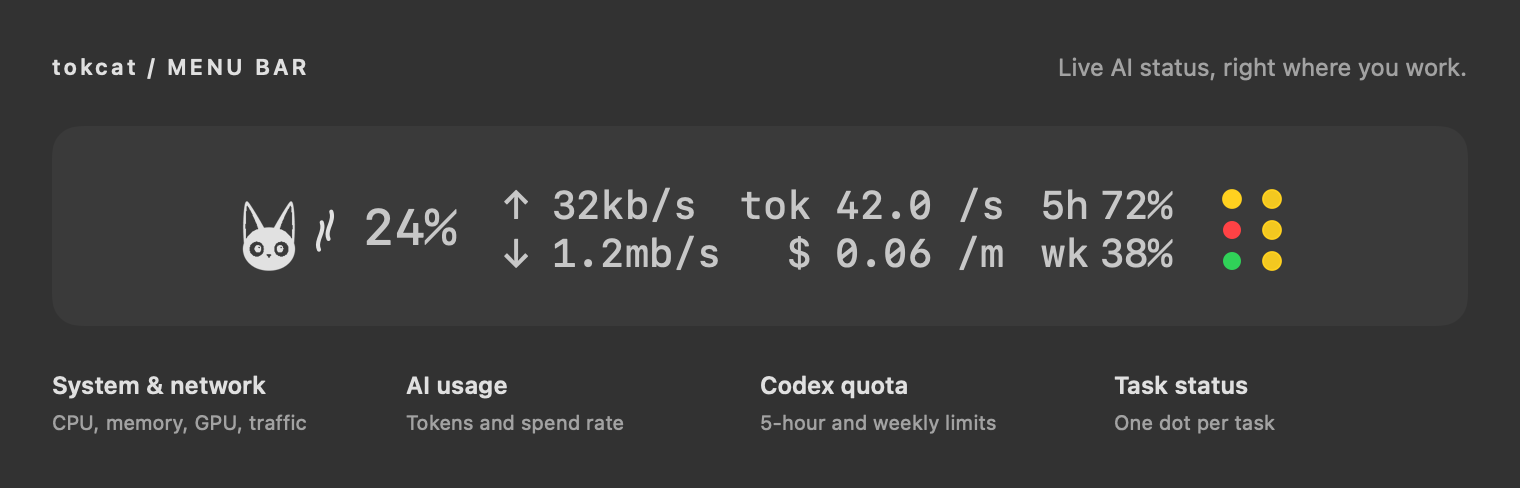
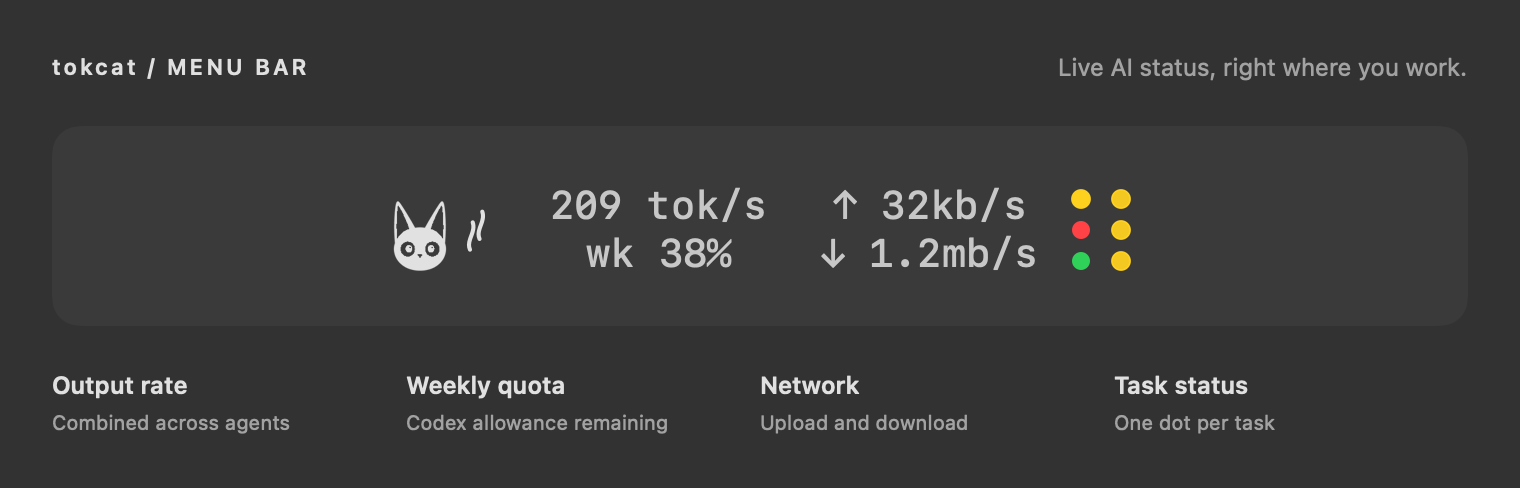
Refresh GitHub homepage with the fixed-width menu bar

diff --git a/scripts/docs_screenshots/MenuBarDocumentationPreview.swift b/scripts/docs_screenshots/MenuBarDocumentationPreview.swift
@@ -20,12 +20,9 @@ enum MenuBarDocumentationPreview {
             return value
         }
         let settings = AppSettings(menuBarMetricColumns: AppSettings.defaultMenuBarMetricColumns + [
-            .init(top: .costRate, bottom: .codexFiveHour),
-            .init(top: .cpu),
             .init(top: .networkUpload, bottom: .networkDownload)
         ])
         let quota = CodexUsageSnapshot(
-            fiveHour: .init(kind: .fiveHour, usedPercent: 28, windowSeconds: 18_000, resetAfterSeconds: 3_600),
             weekly: .init(kind: .weekly, usedPercent: 62, windowSeconds: 604_800, resetAfterSeconds: 86_400),
             fetchedAt: now)
         for dark in [false, true] {
@@ -34,8 +31,8 @@ enum MenuBarDocumentationPreview {
             var strip = NSImage()
             appearance.performAsCurrentDrawingAppearance {
                 let metrics = MenuBarStatusRenderer.image(settings: settings,
-                    metrics: SystemMetrics(cpuPercent: 24, networkInBytesPerSecond: 1_250_000, networkOutBytesPerSecond: 32_768),
-                    tokensPerSecond: 42, usdPerSecond: 0.001,
+                    metrics: SystemMetrics(networkInBytesPerSecond: 1_250_000, networkOutBytesPerSecond: 32_768),
+                    tokensPerSecond: 209.2,
                     activity: .init(mode: .working, intensity: 0.5, phase: 0, completionProgress: 0), codexUsage: quota)
                 strip = SessionMenuBarRenderer.image(icon: metrics, sessions: tasks, phase: 0,
                     reduceMotion: false, now: now,
@@ -57,9 +54,9 @@ enum MenuBarDocumentationPreview {
                 .padding(.vertical, 24)
                 .background(Color.primary.opacity(0.045), in: RoundedRectangle(cornerRadius: 14))
                 HStack(spacing: 0) {
-                    caption("System & network", "CPU, memory, GPU, traffic")
-                    caption("AI usage", "Tokens and spend rate")
-                    caption("Codex quota", "5-hour and weekly limits")
+                    caption("Output rate", "Combined across agents")
+                    caption("Weekly quota", "Codex allowance remaining")
+                    caption("Network", "Upload and download")
                     caption("Task status", "One dot per task")
                 }
             }

diff --git a/README.md b/README.md
@@ -6,7 +6,7 @@ Follow your AI agents’ tasks, conversations and usage from the **macOS menu ba
 
 [English](README.md) · [简体中文](README.zh-CN.md)
 
-**[Install for macOS](#install-for-macos)** · **[Download Windows ZIP](https://github.com/SelinLee/tokcat/releases/download/windows-2026.11.14.1/tokcat-windows-2026.11.14.1.zip)**
+**[Download for macOS](https://github.com/SelinLee/tokcat/releases/latest)** · **[Download Windows ZIP](https://github.com/SelinLee/tokcat/releases/download/windows-2026.11.14.1/tokcat-windows-2026.11.14.1.zip)**
 
 </div>
 
@@ -136,12 +136,14 @@ See who is running, who needs an answer, and whose reply is ready. The shared ta
 
 ### Glance at the menu bar
 
-One status dot per task, next to the metrics you choose. Keep several agents in sight while working in another app.
+The default macOS menu-bar column shows the combined output rate in `tok/s` above the remaining weekly Codex quota (`wk`). In **Settings → Menu Bar**, add or remove columns and select each row independently. Both rows are centered, and their column stays the same width as the readings change.
 
 <picture>
   <source media="(prefers-color-scheme: dark)" srcset="docs/assets/screenshots/readme-menubar-dark.png" />
-  <img src="docs/assets/screenshots/readme-menubar-light.png" alt="Task status dots, token throughput, spend rate, system metrics and Codex quota" width="1040" />
+  <img src="docs/assets/screenshots/readme-menubar-light.png" alt="The menu bar shows 209 tok/s above 38% weekly Codex quota remaining, next to network speeds and task status dots." width="1040" />
 </picture>
+
+`tok/s` measures average output tokens per second. Counts are whole numbers, but rates can be fractional: five tokens over two seconds average 2.5 tok/s.
 
 | Indicator | Meaning |
 |---|---|
@@ -246,7 +248,7 @@ The **Windows 2026.11.14.1** release includes live matching while composing piny
 
 1. Install and open tokcat, then use your agents as usual.
 2. Claude Code sessions with a local registry appear automatically. For detailed lifecycle events or older clients without a registry, enable hooks in **Settings → Agent**, then restart existing Claude Code sessions.
-3. Under **Settings → Menu Bar**, add metric columns and choose their top and bottom rows independently. By default the top row shows the combined output token rate across conversations detected by all enabled agents (for example, `75000 tok/s`). The bottom row shows the remaining weekly Codex quota. Watch the task dots, open **Tasks** for conversations, or **Usage** for trends.
+3. Choose your metrics under **Settings → Menu Bar**. Click the menu bar to see individual tasks, open **Tasks** to read conversations, or open **Usage** for trends.
 4. Choose toki / biti and an attachment in **Settings → Desktop companion**.
 
 ## Build from source
